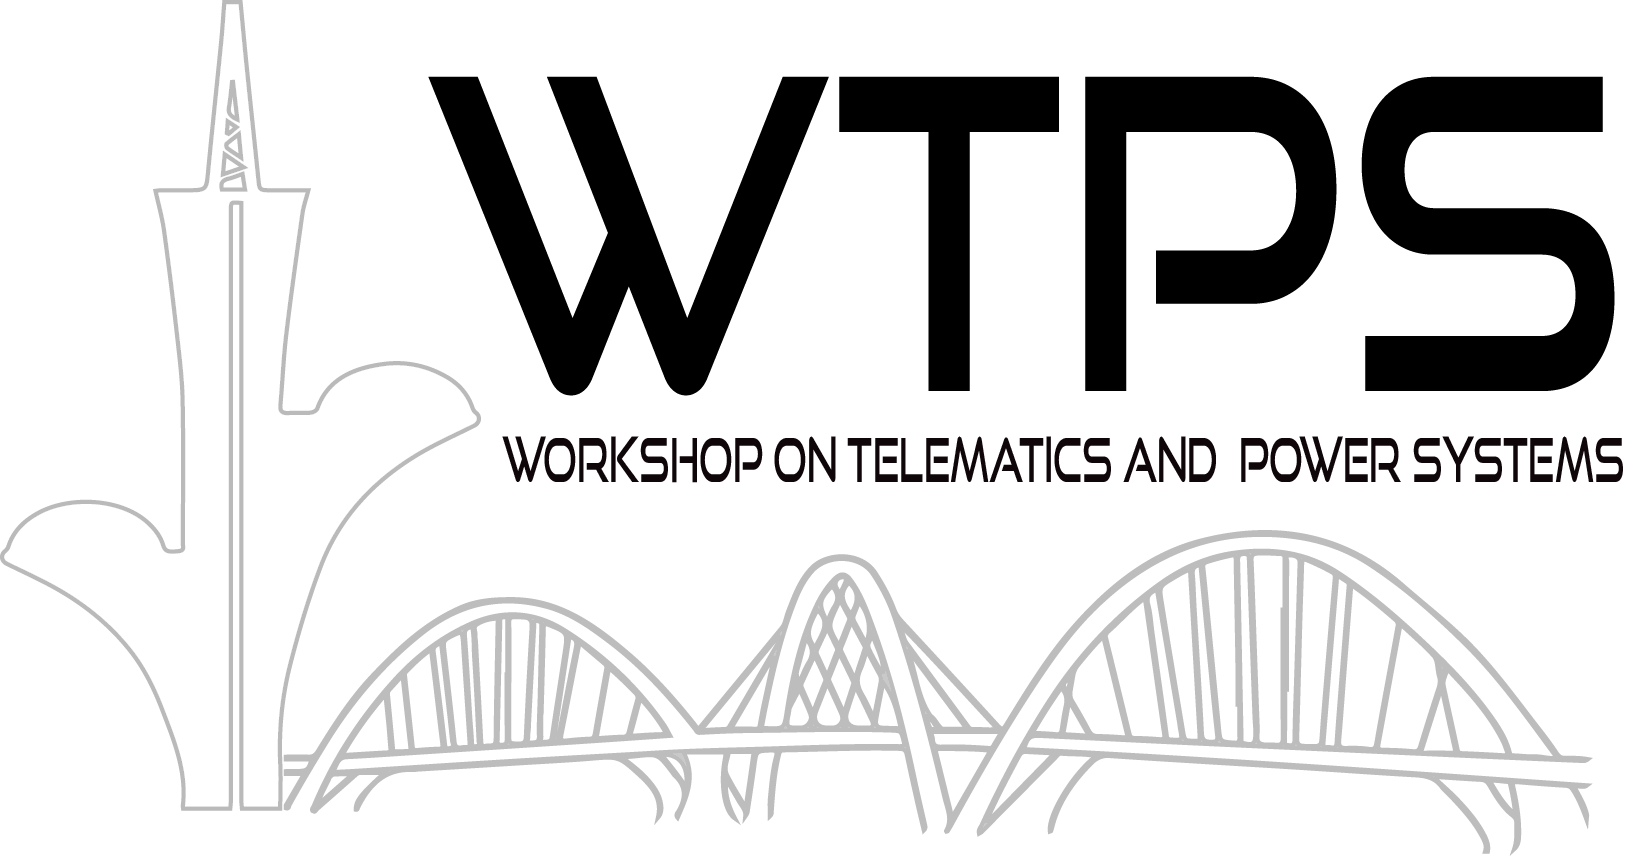
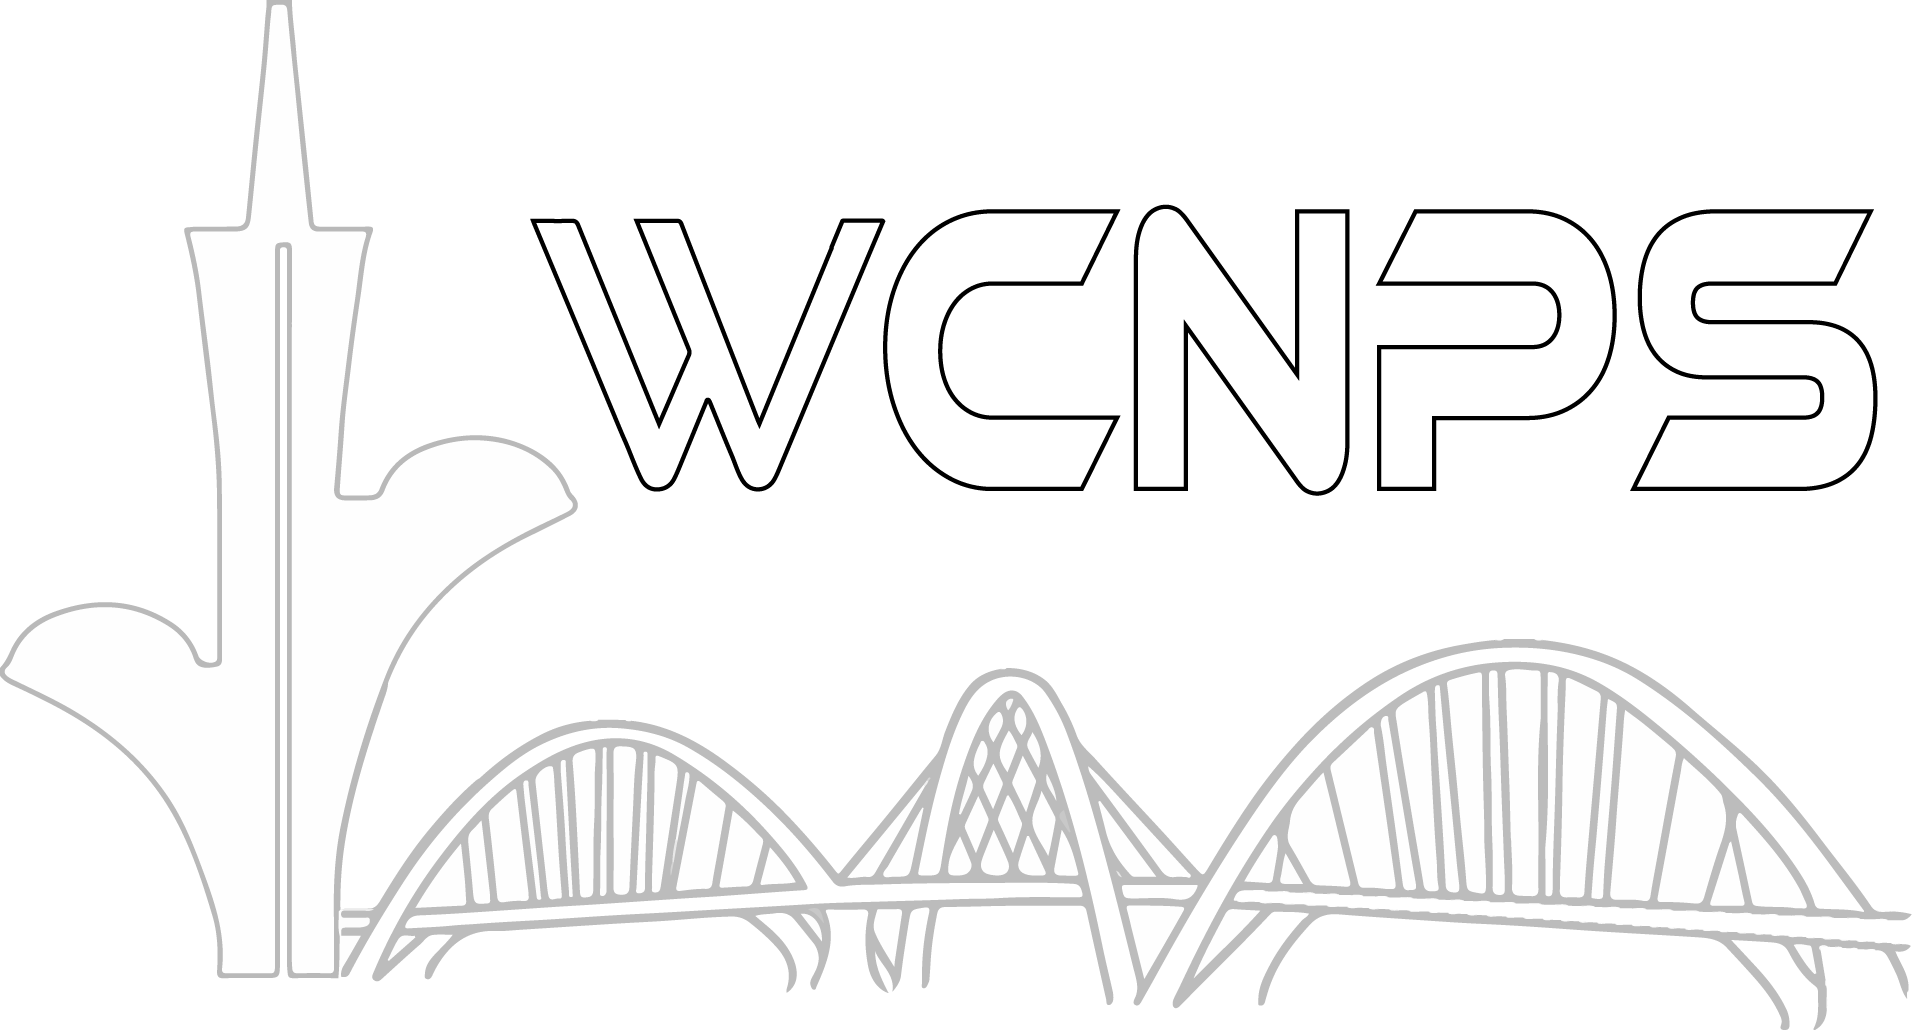
Including new name

diff --git a/index.html b/index.html
@@ -8,7 +8,7 @@
   <meta name="viewport" content="width=device-width, initial-scale=1">
   <link rel="shortcut icon" href="assets/images/ene-unb-308x128.png" type="image/x-icon">
   <meta name="description" content="">
-  <title>WTPS 2017</title>
+  <title>WCNPS 2017</title>
   <link rel="stylesheet" href="https://fonts.googleapis.com/css?family=Lora:400,700,400italic,700italic&amp;subset=latin">
   <link rel="stylesheet" href="https://fonts.googleapis.com/css?family=Montserrat:400,700">
   <link rel="stylesheet" href="https://fonts.googleapis.com/css?family=Raleway:100,100i,200,200i,300,300i,400,400i,500,500i,600,600i,700,700i,800,800i,900,900i">
@@ -77,7 +77,7 @@
 
                                 <div class="row">
                                     <div class="col-md-8 col-md-offset-2 text-xs-center">
-                                        <h2 class="mbr-section-title display-1"><br><br>2nd <span style="font-size: 3.125rem; line-height: 1.1;">Workshop on Telematics and Power Systems</span><br><br></h2>
+                                        <h2 class="mbr-section-title display-1"><br><br><span style="font-size: 3.125rem; line-height: 1.1;">Workshop on Communication Networks and Power Systems</span><br><br></h2>
 
 
                                         <div class="mbr-section-btn"><a class="btn btn-lg btn-success" href="index.html#header3-8">LEARN MORE</a> </div>
@@ -92,7 +92,7 @@
 
                                 <div class="row">
                                     <div class="col-md-8 col-md-offset-2 text-xs-center">
-                                        <h2 class="mbr-section-title display-1">2nd Workshop on Telematics and Power Systems<br><br><br><br></h2>
+                                        <h2 class="mbr-section-title display-1">Workshop on Communication Networks and Power Systems<br><br><br><br></h2>
 
 
                                         <div class="mbr-section-btn"><a class="btn btn-lg btn-success" href="index.html#header3-8">LEARN MORE</a> </div>
@@ -107,7 +107,7 @@
 
                                 <div class="row">
                                     <div class="col-md-8 col-md-offset-2 text-xs-center">
-                                        <h2 class="mbr-section-title display-1">2nd Workshop on Telematics and Power Systems<br><br><br><br></h2>
+                                        <h2 class="mbr-section-title display-1">Workshop on Communication Networks and Power Systems<br><br><br><br></h2>
 
 
                                         <div class="mbr-section-btn"><a class="btn btn-lg btn-success" href="index.html#header3-8">LEARN MORE</a> </div>
@@ -136,12 +136,12 @@
         <div class="row">
             <div class="col-xs-12">
                 <h3 class="mbr-section-title display-2"><div><span style="color: inherit; font-size: 3rem; line-height: 1.1;">Welcome to WTPS 2017!</span><br></div></h3>
-                <p class="mbr-section-subtitle" style="color: inherit;">2017 Workshop on Telematics and  Power Systems</p>
+                <p class="mbr-section-subtitle" style="color: inherit;">Workshop on Communication Networks and Power Systems</p>
                 <p class="mbr-section-subtitle" style="color: inherit;">Paper submission deadline is 29.09.17.</p>
                 <br><br>
 
 
-                <small class="mbr-section-subtitle" style="font-size:18px;text-align: justify; color:black;">Following the success of the first Edition of the Workshop on Telematics and Power Systems, we are pleased to announce the second workshop. WTPS 2017 will be held at the University of Brasília, and will count on several plenary talks held by experts and researchers of the industry, the government and the academia. Moreover, the event also includes the presentation of contributed papers, that will undergo peer review in order to provide feedback to the authors and ensure a high-quality program.<br></small>
+                <small class="mbr-section-subtitle" style="font-size:18px;text-align: justify; color:black;">Following the success of the first Edition of the Workshop on Communication Networks and Power Systems, we are pleased to announce the second workshop. WTPS 2017 will be held at the University of Brasília, and will count on several plenary talks held by experts and researchers of the industry, the government and the academia. Moreover, the event also includes the presentation of contributed papers, that will undergo peer review in order to provide feedback to the authors and ensure a high-quality program.<br></small>
             </div>
         </div>
     </div>
